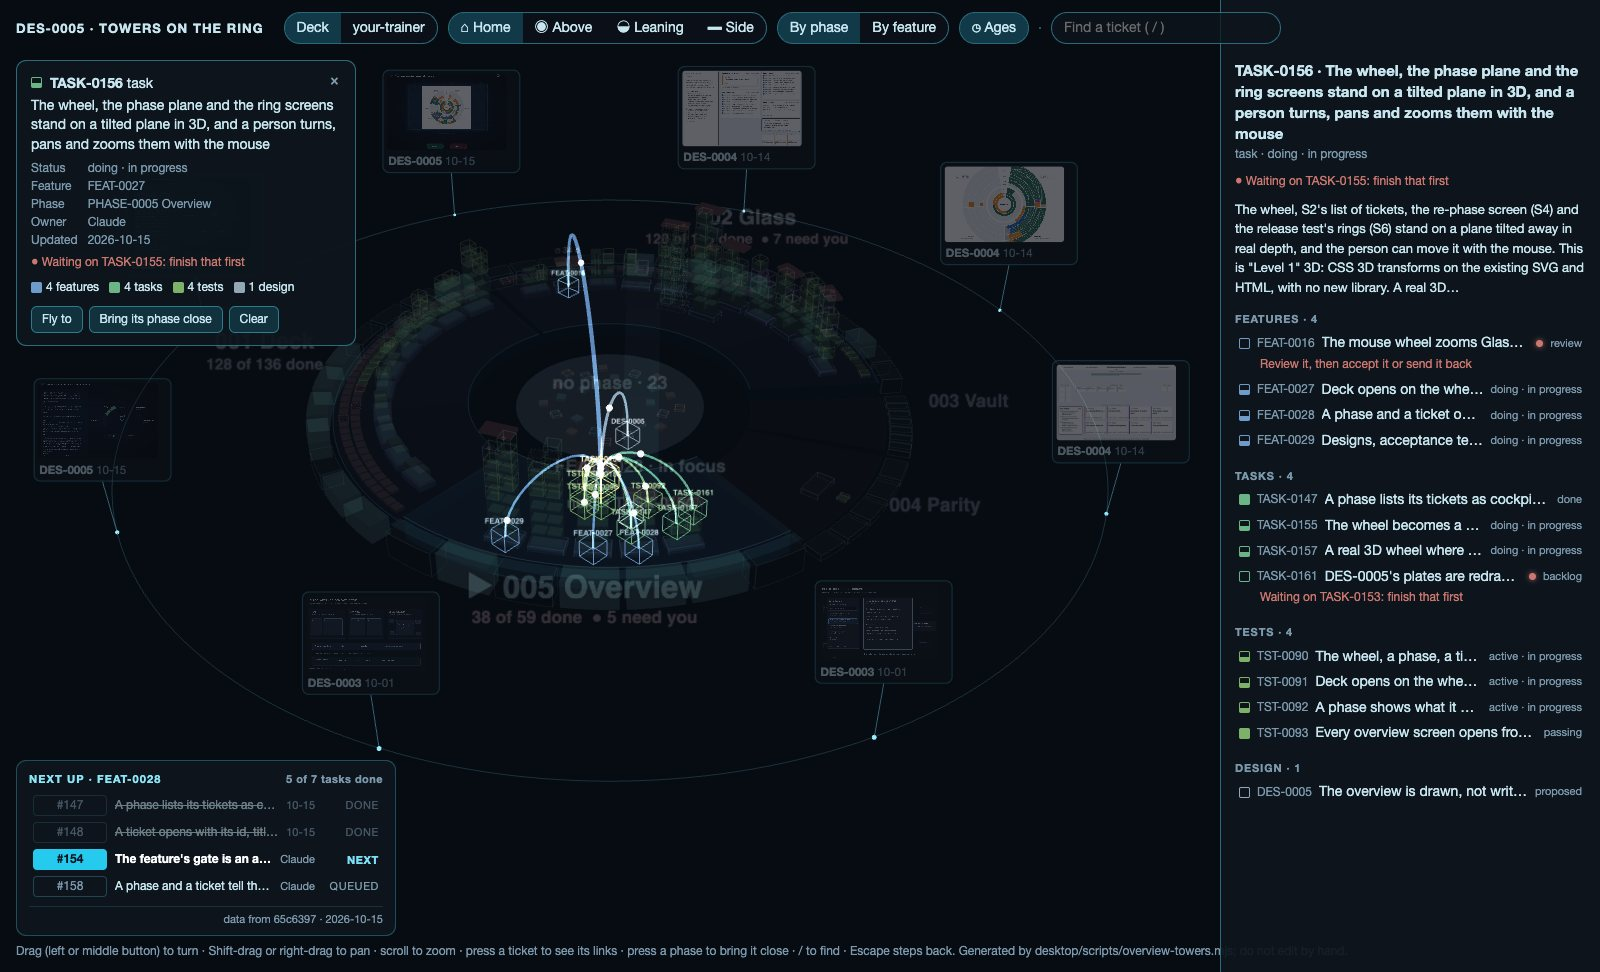
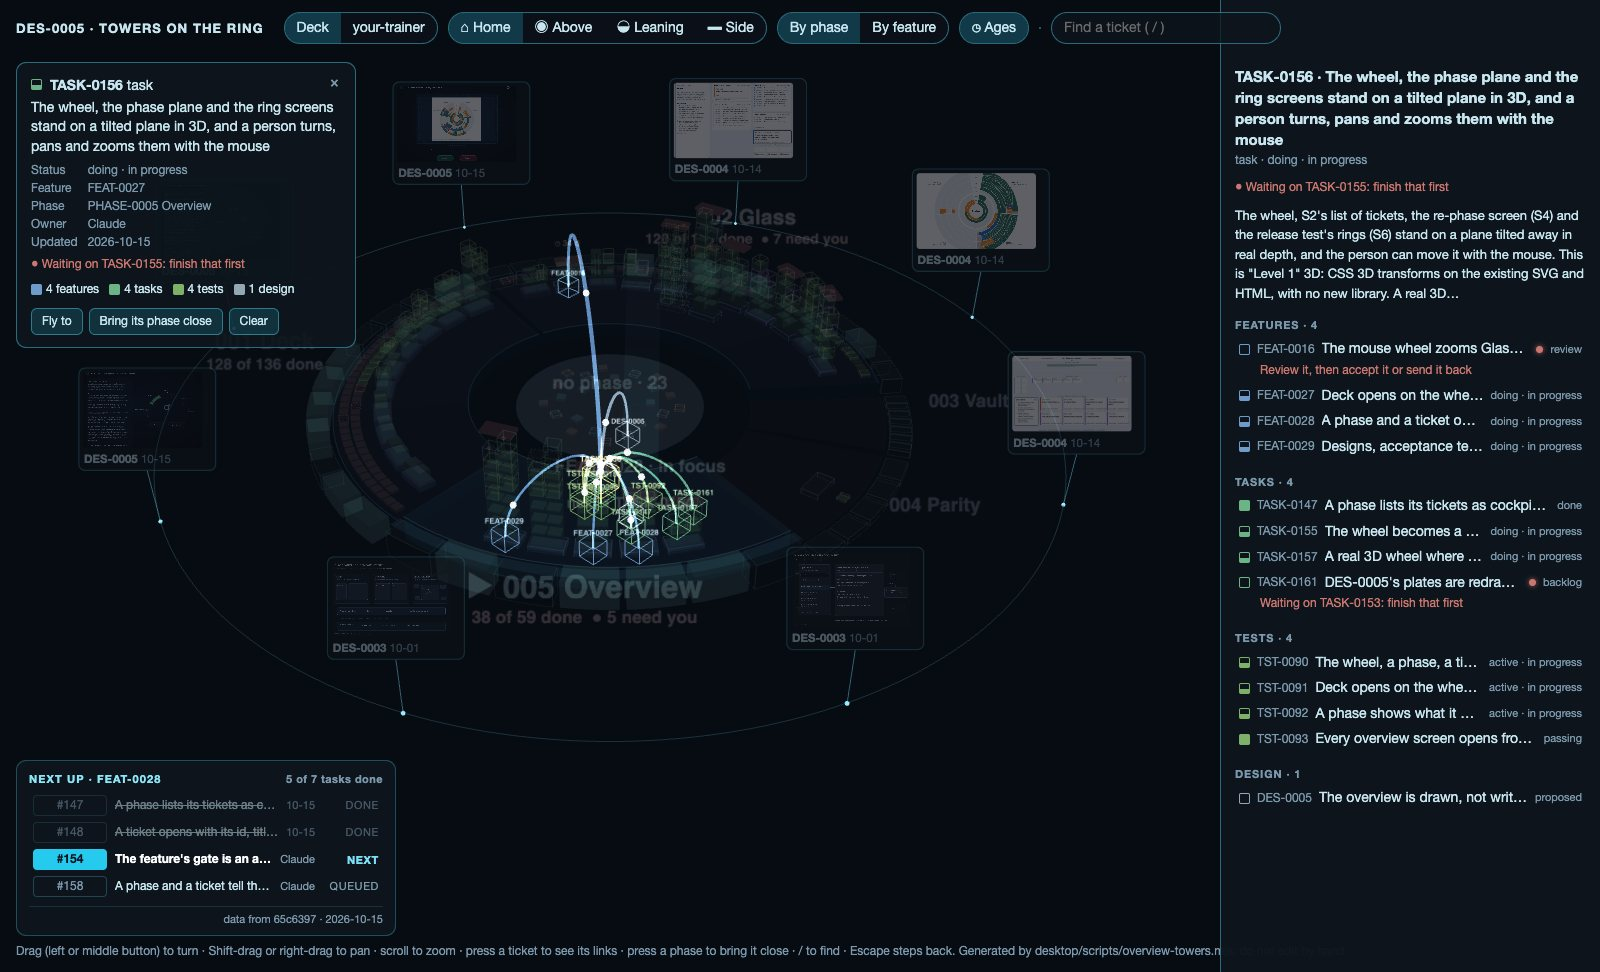
TASK-0177's review round one recorded; DES-0005's captions follow the evidence: field and say how dates and weeks are read

diff --git a/docs/designs/DES-0005-The-Overview-Is-Drawn-Not-Written.md b/docs/designs/DES-0005-The-Overview-Is-Drawn-Not-Written.md
@@ -262,8 +262,8 @@ A search for "heart rate" on your-trainer: 29 matches, in four phases of the rin
 - **A needs-you panel, top right.** A large count of the tickets that need you, then one bar split by the cockpit's reasons: failed, to review, to decide (triage), to run (a test never run) and waiting. The first three tickets follow as cockpit rows, the most urgent reason first. Pressing a part of the bar, or its word, lights those tickets on the ring as a search does; pressing a row selects its ticket.
 - **By phase, or by feature.** A switch in the header regroups the ring. By feature, each unfinished feature is a segment with its tickets as one tower, whatever phase they are in, and the feature in focus faces you. Finished features stand on the shelf, and tickets of no feature lie in the core. Each segment's name is smaller than a phase's, since there are many more of them. The page remembers the choice in this browser.
 - **Age badges.** A tower whose tickets have not changed for 14 days or more carries "◷ 34 d": the days from its newest change to the date the data was read, which is the fixture's date, not today. The card gives the same count for one ticket. "◷ Ages" in the header hides and shows them.
-- **A ring of recent evidence**, outside the shelf: up to eighteen of the newest pictures kept beside the notes, at most three for one ticket, each on a post with its ticket's id and date. A picture belongs to the note that links to it, else to the ticket its file name names, else to the feature whose folder holds it; its date is its last commit. Pressing one selects its ticket. The pictures are the files themselves, so the page shows them only where the repositories sit side by side, as here.
-- **The year as weeks, bottom right**: four rows of thirteen squares, each filled by the tickets closed that week, the week the data was read outlined and the weeks after it faint. A ticket's closing week is the last update of its note. Pressing a week lights the tickets closed in it.
+- **A ring of recent evidence**, outside the shelf: up to eighteen of the newest pictures kept beside the notes, at most three for one ticket, each on a post with its ticket's id and date. A picture belongs to the note that names it (its `evidence:` field, a link, or a wiki link by path, or by name when no other picture has that name), else to the ticket its file name names, else to the feature whose folder holds it; its date is its last commit, and a picture changed since is shown as it is today. Pressing one selects its ticket. The pictures are the files themselves, so the page shows them only where the repositories sit side by side, as here.
+- **The year as weeks, bottom right**: four rows of thirteen squares, each filled by the tickets closed that week, the week the data was read outlined and the weeks after it faint. A ticket's closing week is the last update of its note; the last day or two of the year fold into week 52, and closed tickets with no date are counted under the squares (49 on your-trainer). Pressing a week lights the tickets closed in it.
 - The two panels on the right give way to the right pane when it opens.
 
 ![Deck grouped by feature](__attachments__/DES-0005/towers-deck-byfeature.jpg)
@@ -276,11 +276,11 @@ Deck by phase, as the page opens, with every panel round the towers. One tower c
 
 ![your-trainer grouped by feature](__attachments__/DES-0005/towers-your-trainer-byfeature.jpg)
 
-your-trainer grouped by feature: 51 unfinished features on the ring and 1,520 tickets of no feature in the core. 75 tickets need you: 5 to decide, 9 to run and 61 waiting. 1,478 tickets closed in 2026, most in week 24.
+your-trainer grouped by feature: 51 unfinished features on the ring and 1,520 tickets of no feature in the core. 75 tickets need you: 5 to decide, 9 to run and 61 waiting. 1,478 tickets closed in 2026, most in week 24; 49 more closed with no date are counted apart.
 
 ![your-trainer as the page opens](__attachments__/DES-0005/towers-your-trainer-home.jpg)
 
-your-trainer by phase: 41 towers carry age badges, the quietest FEAT-0025 and FEAT-0028 in the backlog phase at 235 and 233 days. The evidence ring holds eighteen pictures, from DES-0006, DES-0005, FEAT-0112, FEAT-0129 and six issues.
+your-trainer by phase: 41 towers carry age badges, the quietest FEAT-0025 and FEAT-0028 in the backlog phase at 235 and 233 days. The evidence ring holds eighteen pictures, from DES-0006, DES-0005, TST-0657 (whose `evidence:` field lists the cadence pictures), FEAT-0129 and six issues.
 
 **What building them into Deck would cost.** The needs-you panel needs nothing new: each ticket's reason is already in Deck's overview model. Grouping by feature uses the feature each ticket already carries (FEAT-0026). Age badges and the weeks need each note's `updated:` in the model, which TASK-0176's board needs as well. The evidence ring needs one new read. The cockpit's sidecar already serves every file under `docs/` by its path (`/docs/<path>`), pictures included, but nothing lists the pictures with their dates and their tickets; Deck would build that list itself, read-only, like its index of notes. **What it leaves open:**
 - A ticket's closing week is its note's last update, which can be later than the day it closed.

diff --git a/docs/features/overview-design/plan/tasks/TASK-0177-Needs-You-Grouping-Ages-And-Weeks-Drawn-On-The-Towers-Page.md b/docs/features/overview-design/plan/tasks/TASK-0177-Needs-You-Grouping-Ages-And-Weeks-Drawn-On-The-Towers-Page.md
@@ -44,3 +44,16 @@ tests: ["[[TST-0094-DES-0005s-Plates-Are-Drawn-For-Every-Screen-With-Every-Mark]
 TST-0094 checks every ticket's reason against the fixture, the data's date, every ticket exactly once grouped by feature, the ring as the unfinished features, a feature's tower and segment holding the same tickets, and the pictures (tickets of the fixture, newest first, at most three each and eighteen in all, each file where the page looks). `evidenceFrom` is tested on small notes and files of its own: by a relative link, a wiki link, a name and a folder, newest first, one per ticket, the linking note first. Breaking four of the guards made it fail: four pictures for one ticket, the folder rule lost, the reason column emptied, finished features on the ring. `cd desktop && npm test`: 795 tests, 795 passed.
 
 In a hidden window the page logged no errors and was driven with real presses: the grouping switch both ways, "◷ Ages" off and on, "to review" in the needs-you panel (5 lit), week 37 (72 lit), a needs-you row (selected, the right panels giving way to the pane), Escape, and an evidence picture (its ticket selected). Pictures: `towers-<workspace>-byfeature.jpg`, and the opening views again with the panels.
+
+## Review
+
+Round one, 2026-10-21, two independent Claude reviewers (`model:claude-opus-5-5`) on `e392180`, one on the data and tests, one driving the page in hidden windows at 1600x1000 and 1100x800. Both asked for changes; every count in the note held. What was found, and what was done:
+
+- **TST-0094 let four breaks through** (data): pictures dated by their first commit, a file name beating the note that links a picture, no age badges, "to review" counted as waiting. The ages, the badges, the weeks and the needs-you lists are now worked out by the data script and checked against the fixture; the picture dates are read by `lastDates`, tested on a log of its own; and the ownership order is tested on small notes. Each of the four breaks now fails the suite.
+- **The `evidence:` field was ignored** (data), so TST-0657's cadence pictures went to FEAT-0112 by its folder. The field is read, from the workspace (`docs/...`) or from the note; so are angle-bracketed links with spaces, wiki links by path, and wiki links by name only when no other picture has that name. A lone `%` in a link no longer stops the run.
+- **The weeks left 49 undated closed tickets out silently** (data); they are counted under the squares. That a picture changed since the commit is shown as it is today, and that the year's last days fold into week 52, is now said in DES-0005.
+- **At 1100 wide the header wrapped onto the legend and the card** (page). The panels now start below the header however tall it is, and the title gives way below 1280 px.
+- **A press on the needs-you bar opened the search list over the bar** (page). A press on a panel lights its tickets without the list; only a typed search lists.
+- **Each regroup left the old scene on the graphics card** (page): 416 textures grew to 5,376 over 40 regroups. The old scene is freed; over 20 regroups the counts stay at 254 geometries and 180 textures.
+- **Evidence pictures fell off-screen, crowded the middle when zoomed out, and swallowed the wheel** (page). The ring stands closer, a far picture shrinks further, and a wheel turn over a picture zooms the view. A drag that starts on a picture still does not turn it.
+- **Phase words were left grouped by feature** (page): the card's Phase now names the ticket's own phase, and the tip counts a feature's tickets. An age badge stands higher, clear of the names.

diff --git a/docs/features/overview-design/FEAT-0025-Every-Overview-Screen-Is-Drawn-Before-It-Is-Built.md b/docs/features/overview-design/FEAT-0025-Every-Overview-Screen-Is-Drawn-Before-It-Is-Built.md
@@ -130,6 +130,10 @@ All fixed, as listed in [[TASK-0176]]'s Review section.
 
 2026-10-21: two fresh independent Claude reviewers on `a101bb5`, each in its own worktree. Both approve. The page reviewer showed all five page fixes with real presses and keys in hidden windows, and found nothing that held in round one had regressed; its three small notes (a search match in another phase left the camera on a phase drawn almost invisible, the search list ran under the right pane, a red cap replacing a selection was unstated) were fixed in `3e964d4`. The data reviewer broke each fix 21 ways, with and without your-trainer, and every one it could reach failed TST-0094; it noted that CI, with only Deck's board, could not check the board's words and counts, so the board's rules became a function tested on rows of their own (`78b220b`).
 
+### Fifth revision, round one (needs you, grouping, ages, evidence and weeks, TASK-0177)
+
+2026-10-21: two independent Claude reviewers on `e392180`. Both requested changes; every count held. The data reviewer found that TST-0094 let four breaks through, because the ages, badges, weeks and panel counts were worked out only in the page, and that the `evidence:` field was ignored. The page reviewer found the header covering the card at 1100 wide, a needs-you press opening the search list over the bar, graphics memory growing with each regroup, evidence pictures off-screen and swallowing the wheel, and phase words left in the feature grouping. All fixed in `f6ad457` and `8a5fb90`, as listed in [[TASK-0177]]'s Review section.
+
 ## Questions between the lanes
 
 None yet. Write a question here, dated, and land it on `main`; the other agent answers under it.
